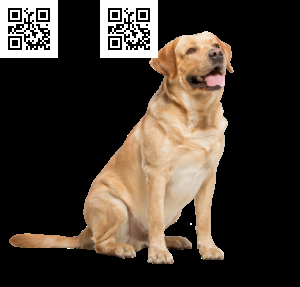
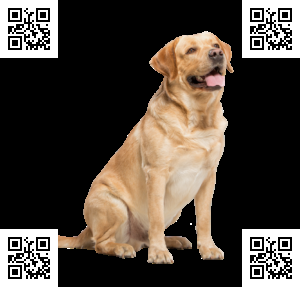
put a qr code in each corner

diff --git a/main.py b/main.py
@@ -9,7 +9,7 @@ import argparse
 
 def add_qrcode_to_image(_source_image:str,_code:str,_scale:float=2)->str:
     qrcode = generate_image_with_qr_code(str(_code),_scale)
-    new_image = put_image_on_image(_source_image,qrcode)
+    new_image = paste_image_in_corners(_source_image,qrcode)
     return new_image
 
 def generate_image_with_qr_code(_code,_scale:float=2):
@@ -17,19 +17,36 @@ def generate_image_with_qr_code(_code,_scale:float=2):
     path = generate_qrcode_image_path(_code)
     qr.png(path, scale=_scale)
     return path
+
+
+
     
-def put_image_on_image(_image_under,_image_over):
+def paste_image_in_corners(_image_under,_image_over):
     copy = copy_image_to_temp(_image_under)
-    img1 = Image.open(copy) 
-    rgb_im1 = img1.convert('RGB')
-    x_pixel_padding = 100
-    for index in range(2):
-        img2 = Image.open(_image_over) 
-        rgb_im2 = img2.convert('RGB')
-        y = 0
-        x = index * x_pixel_padding
-        rgb_im1.paste(rgb_im2, (x,y)) 
-    rgb_im1.save(copy, quality=95)
+    under = Image.open(copy) 
+    under_rgb = under.convert('RGB')
+    uW = under.width
+    uH = under.height
+    
+    over = Image.open(_image_over) 
+    over_rgb = over.convert('RGB')
+    oW = over.width
+    oH = over.height
+    
+    
+    x_pixel_padding = uW - oW
+    y_pixel_padding = uH - oH
+    
+    print(x_pixel_padding)
+    print(y_pixel_padding)
+    print(uW,uH,oW,oH)
+    
+    for i in range(2):
+        for j in range(2):
+            y = j * y_pixel_padding
+            x = i * x_pixel_padding
+            under_rgb.paste(over_rgb, (x,y)) 
+    under_rgb.save(copy, quality=95)
     return copy
     
 def copy_image_to_temp(_path):
@@ -60,7 +77,8 @@ def generate(_source_image,_code,_output_folder)->bool:
     new_image = add_qrcode_to_image(_source_image,_code)
     final_path = copy_image_to_output(new_image,_output_folder)
     data = decode_image(final_path)
-    print(data)
+    for qr in list(data):
+        print(qr)
     if data == _code:
         return True
     return False
@@ -96,6 +114,6 @@ if __name__=="__main__":
 
 
 '''
-python D:/1_TRAVAIL/WIP/CODING/sandbox/read_qrcode/main.py generate -i D:/1_TRAVAIL/WIP/CODING/resources/images/png/dog.png -c TEST -o D:/1_TRAVAIL/WIP/CODING/sandbox/read_qrcode/output
+python D:/1_TRAVAIL/WIP/CODING/repos/ImageStamp/main.py -generate -i D:/1_TRAVAIL/WIP/CODING/resources/images/png/dog.png -c TEST -o D:/1_TRAVAIL/WIP/CODING/repos/ImageStamp/output
 
 '''
